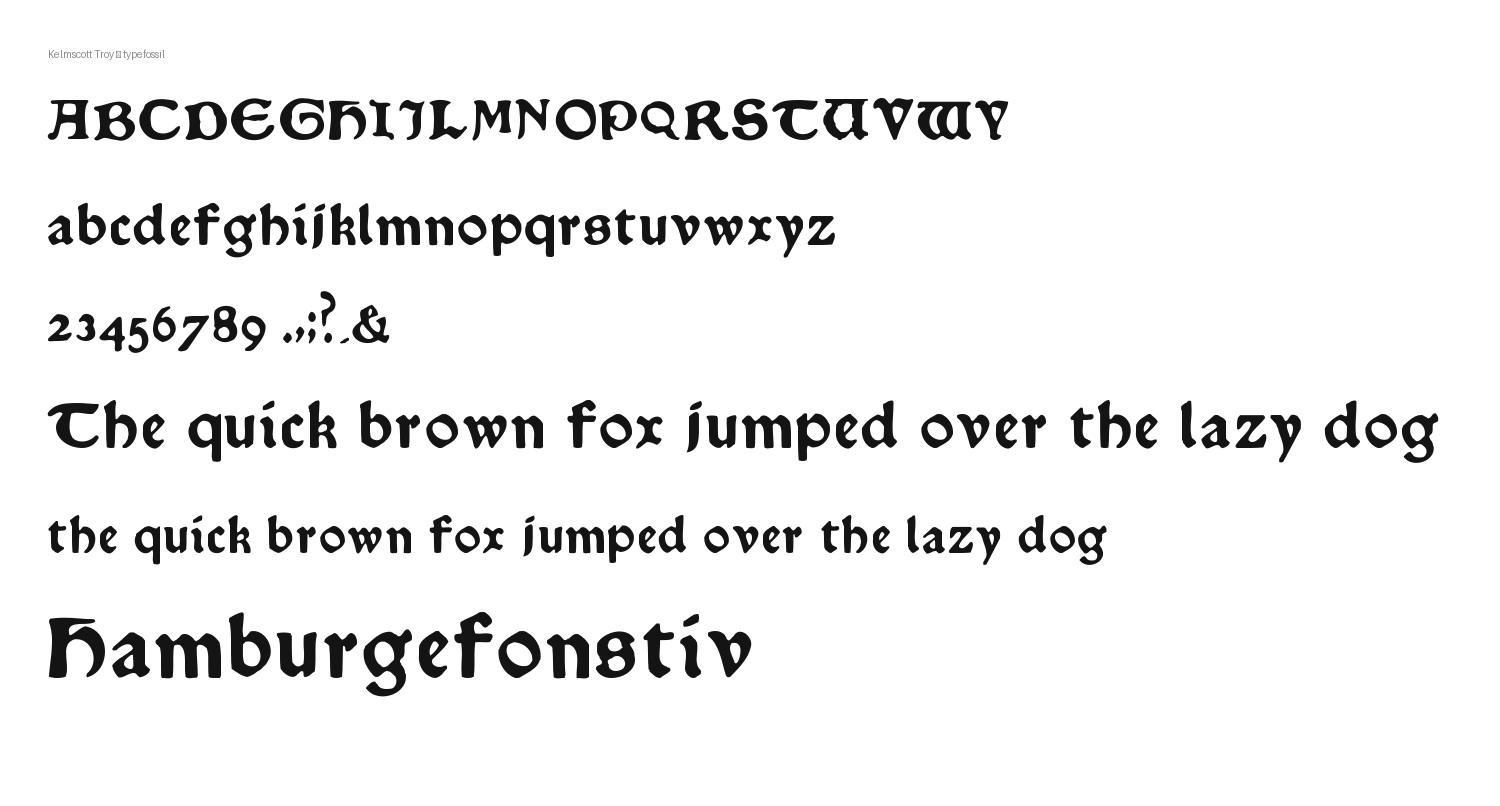
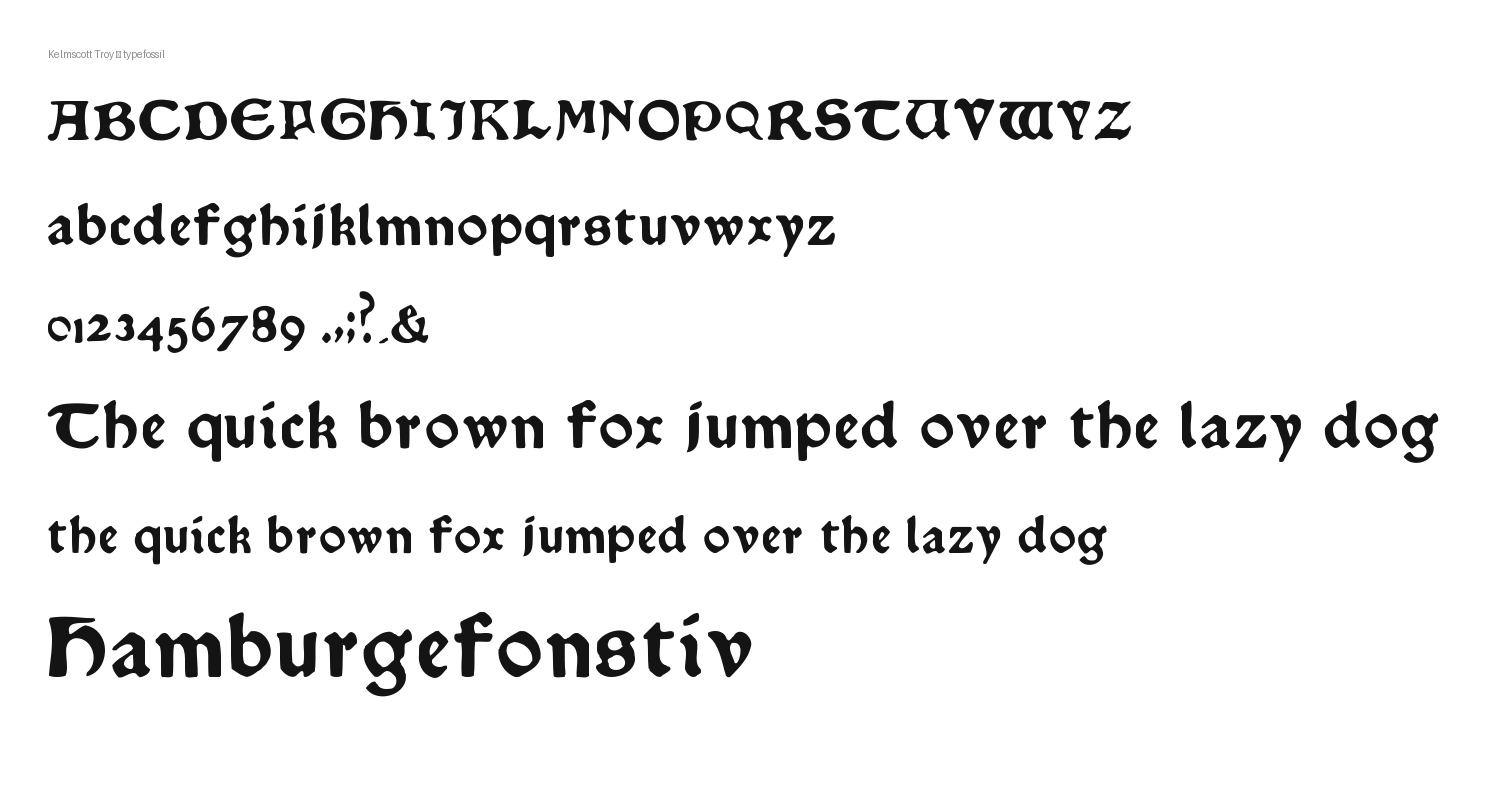
Complete the figures, and treat plucked masters as the different thing they are
All ten digits now, and 25 of 26 capitals. '0' and '1' were in the folio harvest
the whole time and I misread the contact sheet -- 20 and 21 impressions
respectively, sitting in plain view.

A plucked master needs the opposite handling to an averaged one, which took two
visibly wrong builds to see. An averaged master is a smooth greyscale field
built from hundreds of impressions; a plucked master is one or two binary
impressions whose edges are a pixel staircase. Blurring it as lightly as an
averaged master leaves the staircase for the outline fitter to trace faithfully,
and blurring it as heavily closes its counters -- it filled in the eye of 'F'.
The answer is more blur *and* a higher trace level to compensate for the ink
that blurring spreads outward.

align_and_average fixes the other half. Plucked frames are seated by their own
cap height rather than a shared text line, so two impressions of a letter sit a
few pixels apart; averaging them unaligned leaves a half-value ghost along every
edge, which rendered as the faded leg on 'K'.

Claude-Session: https://claude.ai/code/session_01T9i7wGxk73ZqUthNZ1CcxZ

diff --git a/typefossil/pluck.py b/typefossil/pluck.py
@@ -53,3 +53,33 @@ def pluck(path, seed_xy, frame_h=320, frame_w=220, baseline_row=232,
         return None
     fr[top:top + (r1 - r0), 4:4 + (c1 - c0)] = sub
     return fr
+
+
+def align_and_average(frames, level: float = 0.5, limit: int = 12):
+    """Average plucked impressions after aligning them to the first.
+
+    Plucked frames are seated by their own cap height, not by a shared text
+    line, so two impressions of the same letter can sit a few pixels apart.
+    Averaging them unaligned produces a half-value ghost along every edge,
+    which the outline fitter then renders as a thin or broken stroke -- it made
+    the leg of 'K' fade where it meets the stem.
+    """
+    import numpy as np
+    from scipy import ndimage
+
+    frames = [f for f in frames if f is not None]
+    if not frames:
+        return None
+    if len(frames) == 1:
+        return frames[0].copy()
+    ref = frames[0]
+    out = [ref]
+    for f in frames[1:]:
+        best, best_score = (0, 0), -1.0
+        for dy in range(-limit, limit + 1):
+            for dx in range(-limit, limit + 1):
+                s = float((ndimage.shift(f, (dy, dx), order=0, cval=0.0) * ref).sum())
+                if s > best_score:
+                    best, best_score = (dy, dx), s
+        out.append(ndimage.shift(f, best, order=1, cval=0.0))
+    return np.mean(out, axis=0)
